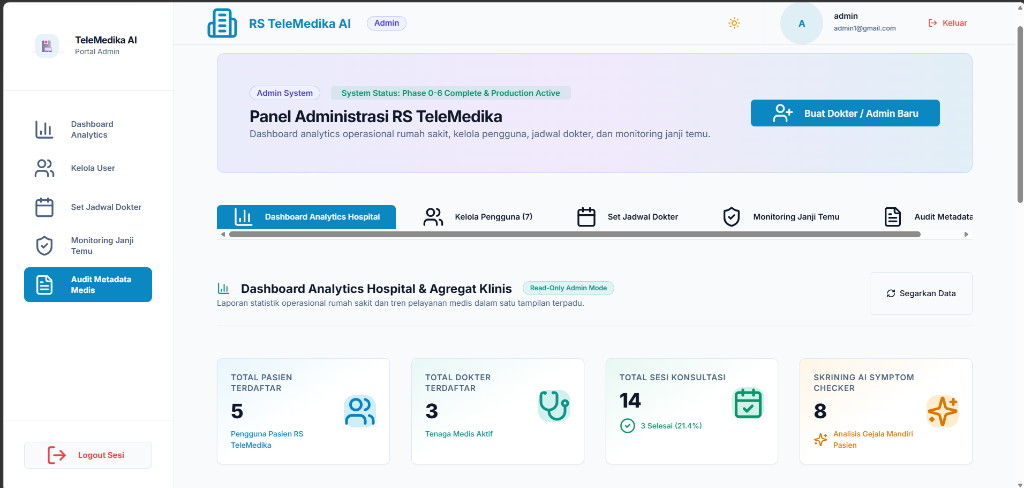
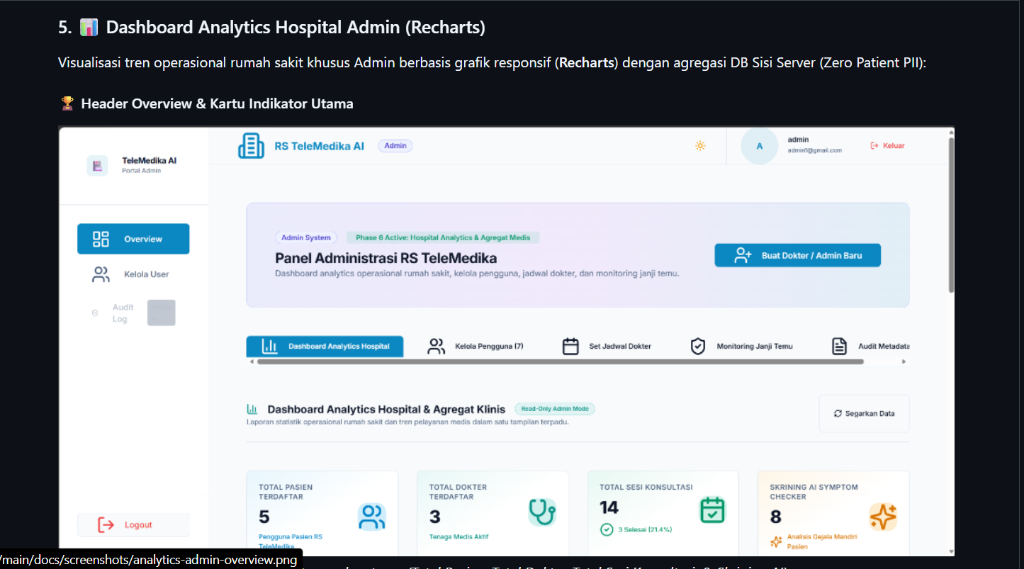
docs: replace Admin Analytics overview image with clean screenshot

diff --git a/PROJECT_SUMMARY.md b/PROJECT_SUMMARY.md
@@ -14,7 +14,7 @@
   - Rekam medis elektronik (EMR) dengan prinsip privasi medis absolut (**Admin Ditolak / 403 Forbidden**).
   - Video Call konsultasi WebRTC langsung di browser via **LiveKit Cloud**.
   - Skrining gejala awal bertenaga AI dengan **Google Gemini API** (`gemini-3.5-flash`) yang dilengkapi deteksi bahaya medis (*Red-Flag Detector*).
-  - Resep obat digital dan laporan rekam medis berformat PDF yang di-generate langsung di sisi server (*Server-Side PDF Buffer Stream*).
+  - Resep obat digital dan laporan rekam medis berformat PDF yang di generate langsung di sisi server (*Server-Side PDF Buffer Stream*).
   - Dashboard Analitik Operasional Rumah Sakit berbasis grafik responsif (**Recharts**) dengan agregasi murni di level database tanpa memaparkan identitas pasien.
 
 ---
